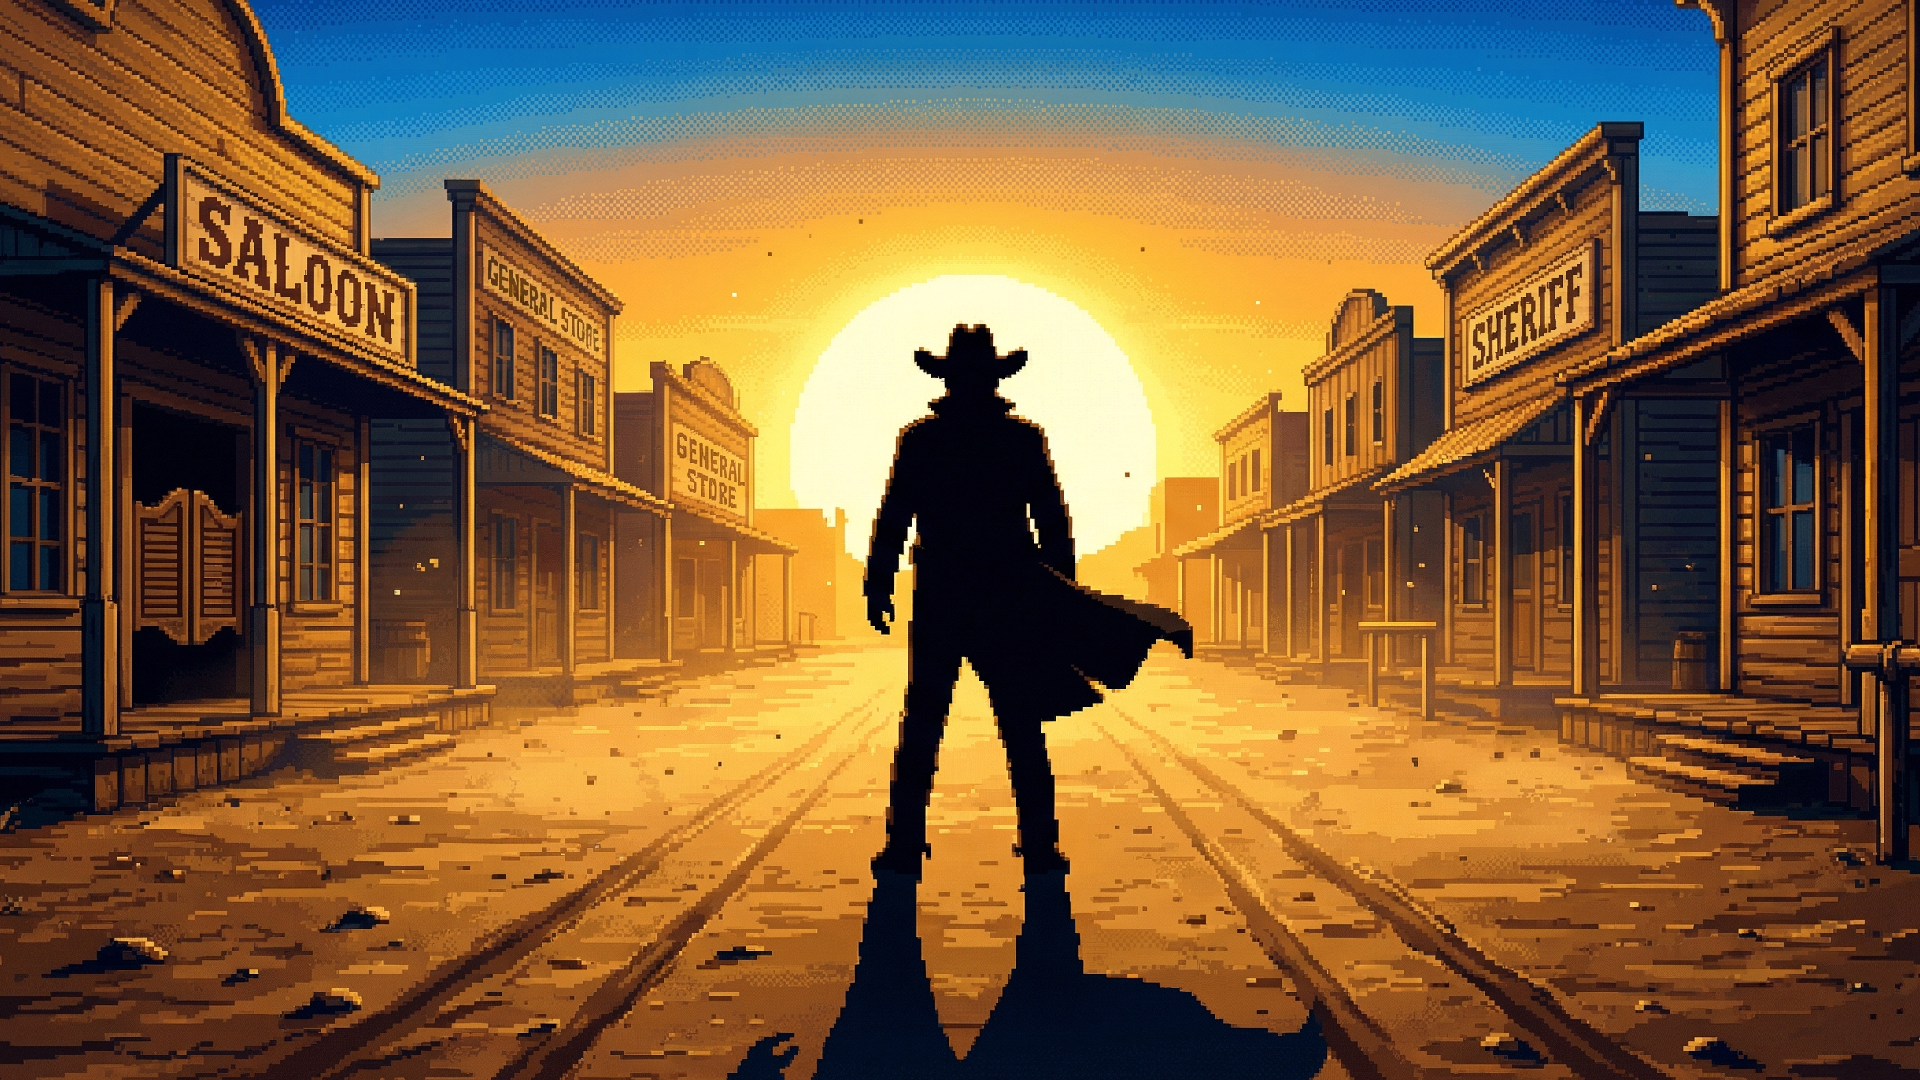
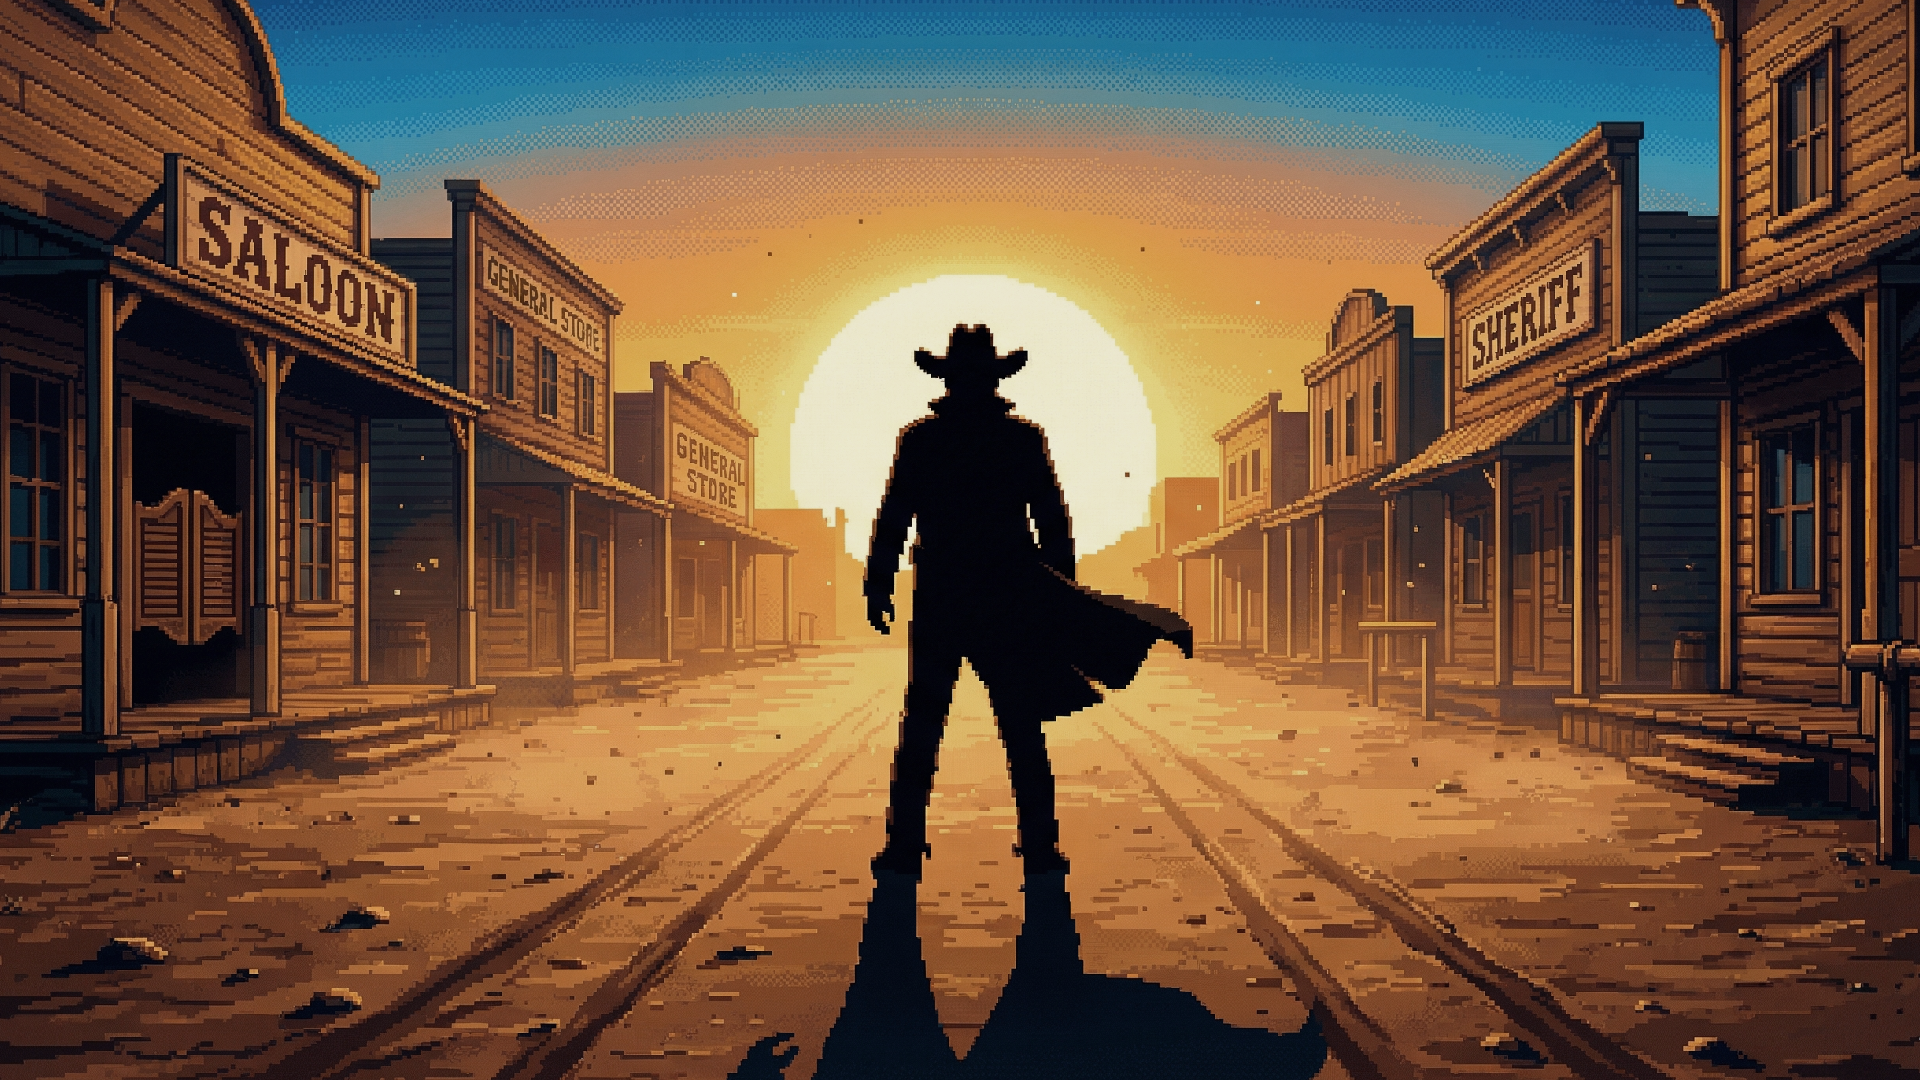
Release v1.2.1

diff --git a/src/ui/hud/EnemyIntent.tsx b/src/ui/hud/EnemyIntent.tsx
@@ -4,6 +4,7 @@ import { SpriteIcon } from '../components/SpriteIcon';
 import { INTENT_FRAMES, INTENT_COLORS, STATUS_FRAMES, HAZARD_FRAMES, TRAIT_FRAMES, TILE_FRAMES } from '../../data/spriteConfig';
 import { useCombatStore } from '../../store/combatStore';
 import { Tooltip } from '../components/Tooltip';
+import { ALL_ENEMIES } from '../../data/enemies';
 
 /** Intent kinds that use an existing status/hazard icon. */
 const INTENT_STATUS_FRAMES: Record<string, number | undefined> = {
@@ -93,6 +94,17 @@ const ACTION_NAMES: Record<string, string> = {
   gain_scavenger: 'Gain Scavenger',
 };
 
+function formatEnemyTypeName(type: string): string {
+  const enemyName = ALL_ENEMIES[type]?.name;
+  if (enemyName) return enemyName;
+
+  return type
+    .split('_')
+    .filter(Boolean)
+    .map((word) => word.charAt(0).toUpperCase() + word.slice(1))
+    .join(' ');
+}
+
 function describeAction(action: MoveAction, rageful: number): string {
   switch (action.kind) {
     case 'attack':
@@ -122,7 +134,7 @@ function describeAction(action: MoveAction, rageful: number): string {
     case 'fools_gold':
       return `Place ${action.value} Fool's Gold tiles.`;
     case 'summon':
-      return action.summonType ? `Summon ${action.summonType}.` : 'Summon an enemy.';
+      return action.summonType ? `Summon ${formatEnemyTypeName(action.summonType)}.` : 'Summon an enemy.';
     case 'heal':
       return `Heal ${action.value} HP.`;
     case 'gain_rageful':

diff --git a/src/ui/screens/MerchantScreen.tsx b/src/ui/screens/MerchantScreen.tsx
@@ -582,7 +582,7 @@ export const MerchantScreen = memo(function MerchantScreen() {
 
       {/* Upgrade: tile selection (same layout as campfire) */}
       {upgradePhase === 'selecting' && (
-        <FullScreenOverlay backdropClass="bg-black/40" zIndex={120}>
+        <FullScreenOverlay backdropClass="bg-black/65" zIndex={120}>
           <div className="flex flex-col items-center justify-center">
             <h2 className="text-xl text-amber-400 mb-2 font-bold uppercase" style={{ WebkitTextStroke: '4px #000', paintOrder: 'stroke fill' }}>Upgrade a Tile</h2>
             <p className="text-stone-400 text-xs mb-4">Permanent +1 tier for the rest of the run</p>
@@ -654,7 +654,7 @@ export const MerchantScreen = memo(function MerchantScreen() {
       {upgradePhase === 'upgraded' && (() => {
         const tileDef = upgradeSelectedTile ? TILE_DEFINITIONS[upgradeSelectedTile] : null;
         return (
-          <FullScreenOverlay backdropClass="bg-black/40" zIndex={120}>
+          <FullScreenOverlay backdropClass="bg-black/65" zIndex={120}>
             <div className="flex flex-col items-center justify-center">
               <div className="mb-4"><SpriteIcon frame={UI_FRAMES.upgrade} scale={3} /></div>
               <h2 className="text-xl text-amber-400 mb-2 font-bold uppercase" style={{ WebkitTextStroke: '4px #000', paintOrder: 'stroke fill' }}>Upgraded</h2>

diff --git a/src/version.ts b/src/version.ts
@@ -1,3 +1,3 @@
-export const APP_VERSION = 'v1.2.0';
+export const APP_VERSION = 'v1.2.1';
 export const APP_VERSION_PREFIX = 'Alpha';
 export const APP_VERSION_LABEL = `${APP_VERSION_PREFIX} ${APP_VERSION}`;

diff --git a/CHANGELOG.md b/CHANGELOG.md
@@ -4,6 +4,12 @@ All notable changes to this project will be documented in this file.
 
 The format is based on [Keep a Changelog](https://keepachangelog.com/).
 
+## v1.2.1
+
+### Fixed
+- Merchant upgrade selection now dims the background more clearly.
+- Summon intent tooltips now show enemy names instead of internal IDs.
+
 ## v1.2.0
 
 ### Changed

diff --git a/docs/TASKS.md b/docs/TASKS.md
@@ -50,3 +50,5 @@ todo:
 - add dark overlay to victory/defeat screen
 - remove pre-1.0.0 changelog entries
 - status effect tooltips are cut off
+- dark overlay not dark enough for merchant upgrade
+- summon intent tooltip shows technical enemy name, e.g. prospector_gone_mad
